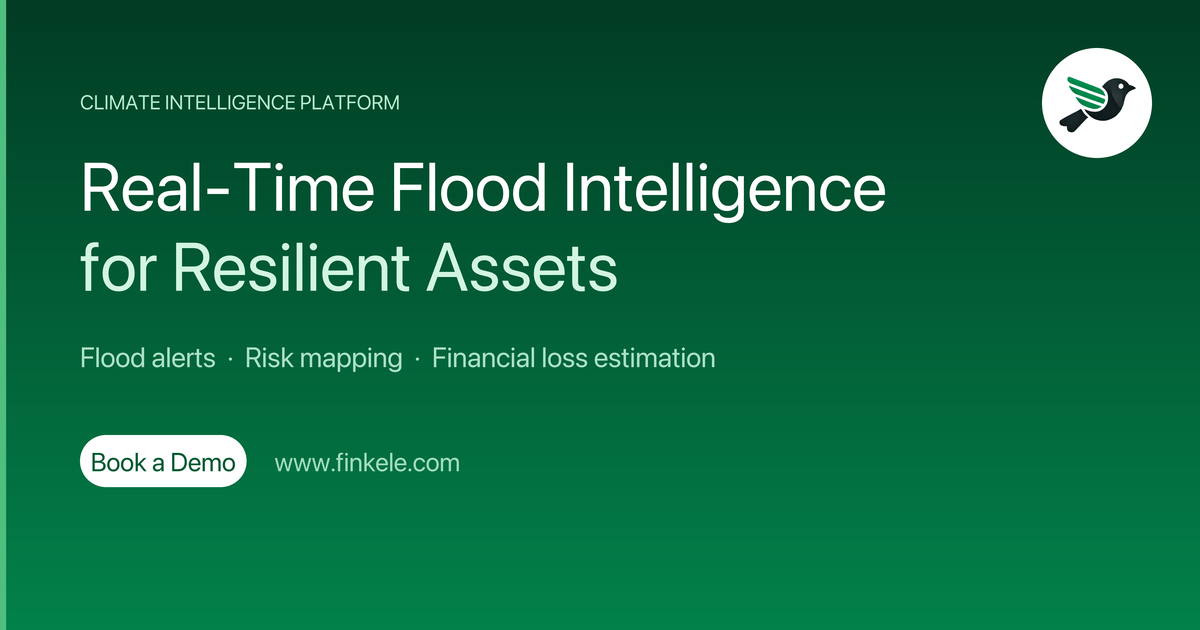
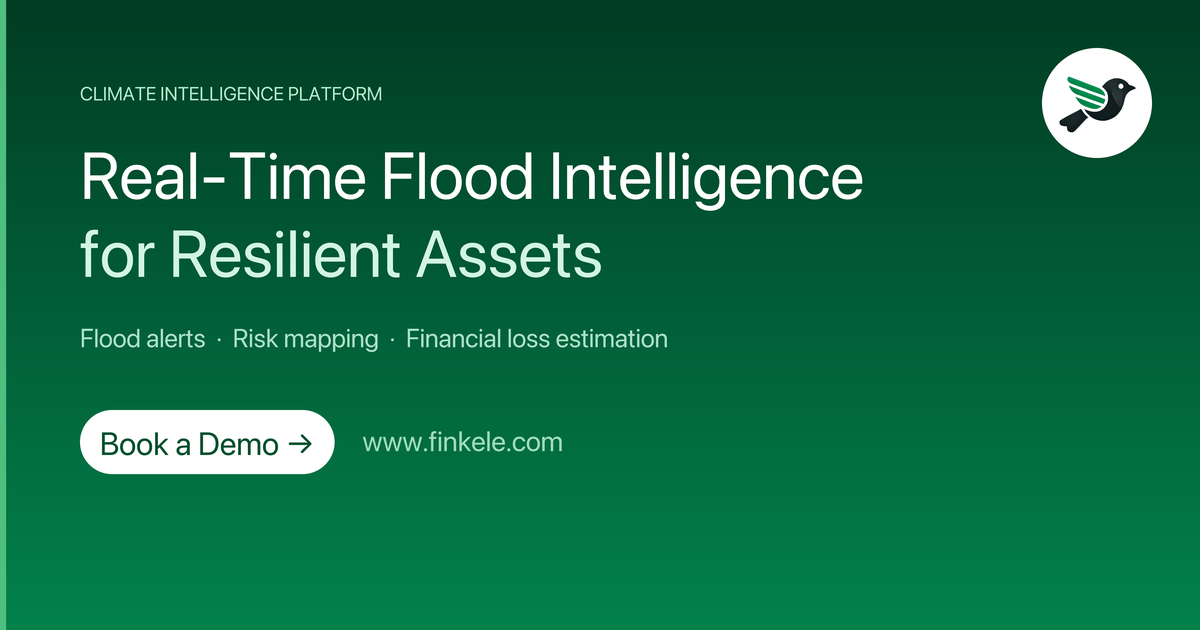
OG: larger CTA button for image recognition validators, bump to v3

diff --git a/public/index.html b/public/index.html
@@ -8,12 +8,12 @@
     <meta name="author" content="Finkele">
     <meta property="og:title" content="Finkele – Real-Time Flood Intelligence for Asset Managers">
     <meta property="og:description" content="Real-time flood alerts, interactive risk mapping and financial loss estimation — built for property owners and asset managers across the UK.">
-    <meta property="og:image" content="https://finkele.com/assets/img/og-image.png?v=2">
+    <meta property="og:image" content="https://finkele.com/assets/img/og-image.png?v=3">
     <meta property="og:image:width" content="1200">
     <meta property="og:image:height" content="630">
     <meta property="og:image:alt" content="Finkele – Climate Intelligence for Resilient Assets">
     <meta name="twitter:card" content="summary_large_image">
-    <meta name="twitter:image" content="https://finkele.com/assets/img/og-image.png?v=2">
+    <meta name="twitter:image" content="https://finkele.com/assets/img/og-image.png?v=3">
     <meta name="twitter:title" content="Finkele – Real-Time Flood Intelligence for Asset Managers">
     <meta name="twitter:description" content="Real-time flood alerts, interactive risk mapping and financial loss estimation — built for property owners and asset managers across the UK.">
     <meta property="og:url" content="https://www.finkele.com">
